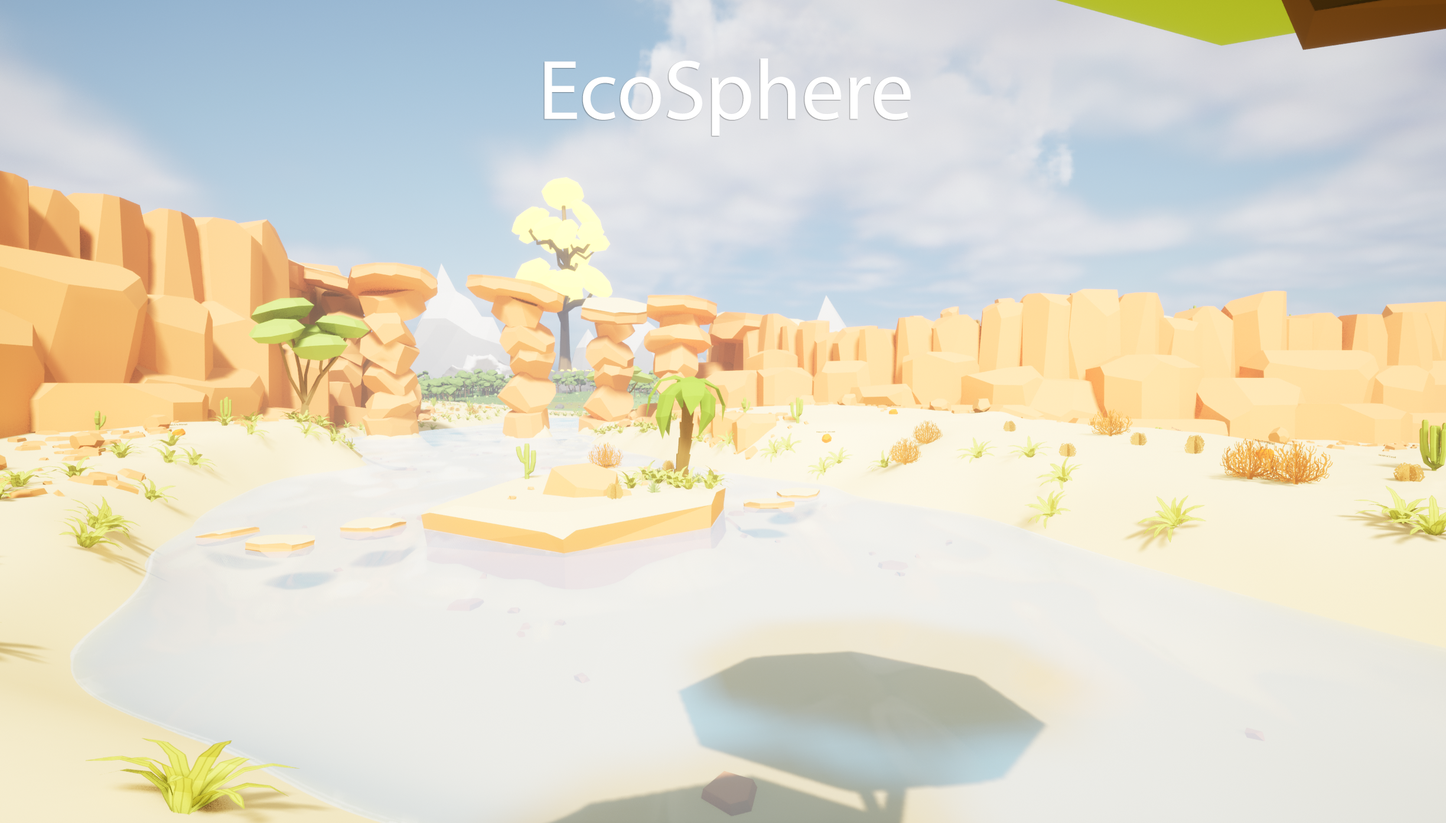
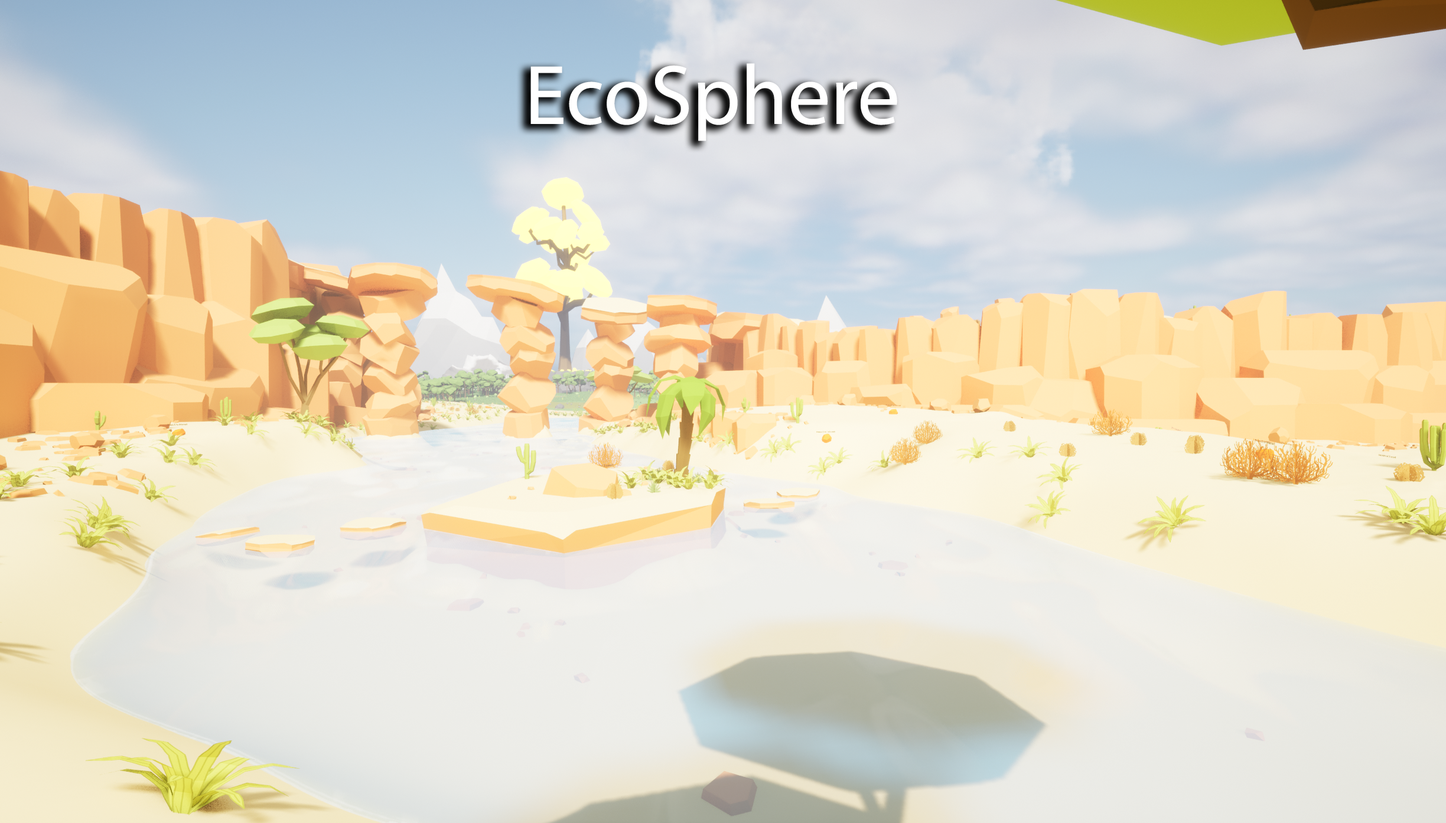
idk latest commit

Changed region(s): [[0.3415, 0.0617, 0.652, 0.1851]]

diff --git a/src/Ecosphere.tsx b/src/Ecosphere.tsx
@@ -1,5 +1,4 @@
 import { motion } from "framer-motion";
-import background from "./assets/ecosphereCover.png";
 
 function Ecosphere() {
   return (
@@ -7,14 +6,9 @@ function Ecosphere() {
       initial={{ opacity: 0 }}
       animate={{ opacity: 1 }}
       exit={{ opacity: 0 }}
-      style={{
-        background: `url(${background})`,
-        backgroundSize: "cover",
-        backgroundPosition: "center",
-      }}
     >
-      <div style={{ width: "100%", height: "720px" }}>
-        <h1> Testin! </h1>
+      <div>
+        <h1> EcoSphere </h1>
       </div>
     </motion.div>
   );

diff --git a/src/Ecosphere.css b/src/Ecosphere.css
@@ -1,0 +1,5 @@
+.container {
+
+
+    
+}
